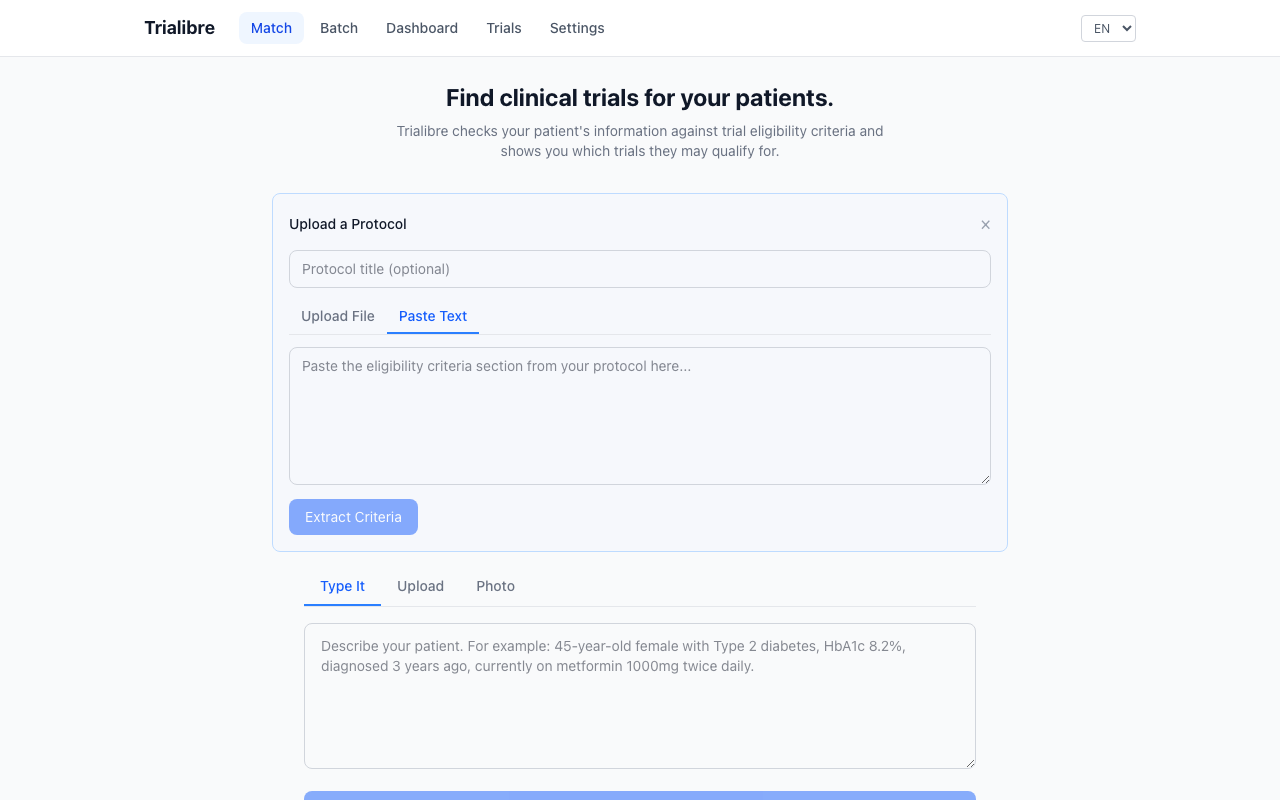
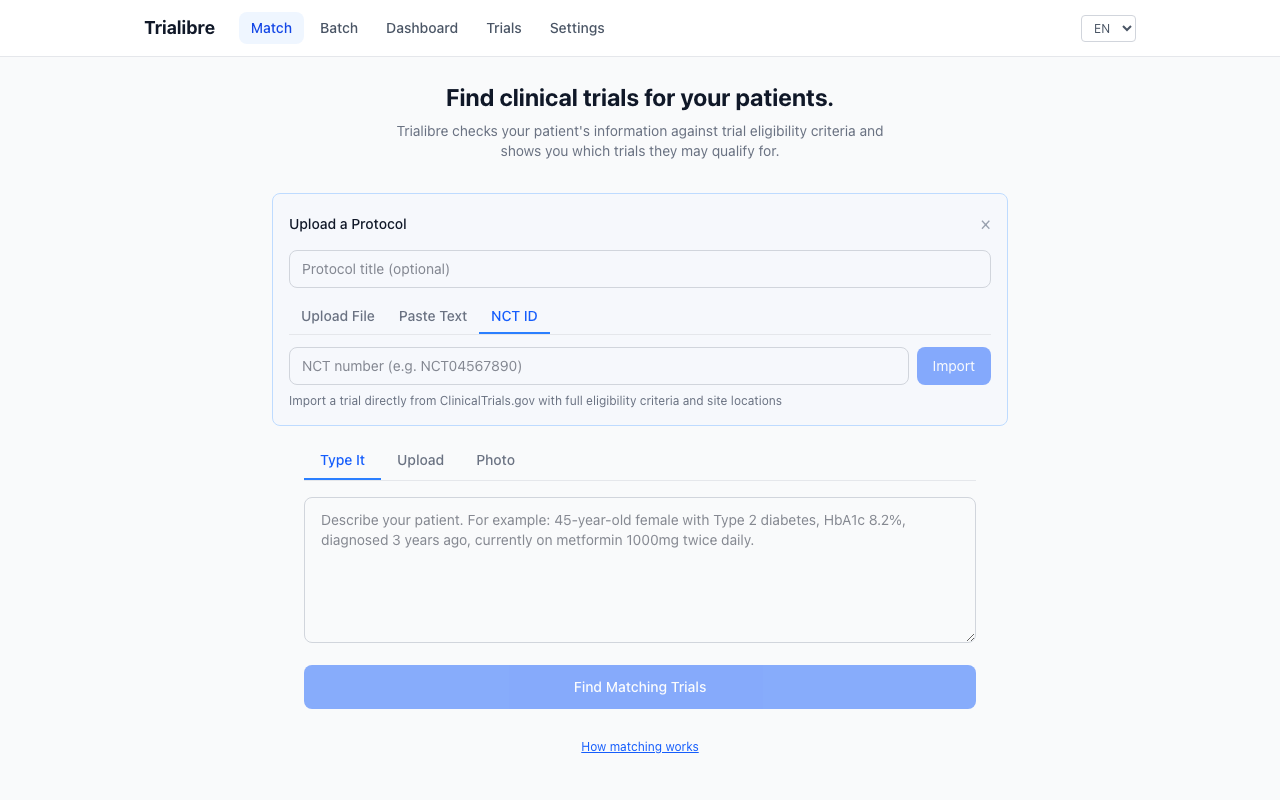
Update README with NCT ID import + revised screenshot
- Added NCT ID import to Features section
- Updated screenshot to show NCT ID tab
- Updated protocol upload caption

diff --git a/README.md b/README.md
@@ -53,8 +53,8 @@ Type a clinical note, upload a document, or take a photo of a patient record.
   <img src="docs/screenshots/01-match-page.png" alt="Match Page" width="700" />
 </p>
 
-### Custom Protocol Upload
-Upload your own protocol document (PDF, DOCX, or paste text) and match patients against it. Trialibre automatically extracts inclusion and exclusion criteria from the document.
+### Custom Protocol Upload + ClinicalTrials.gov Import
+Upload your own protocol (PDF, DOCX, paste text) or import directly from ClinicalTrials.gov by NCT ID. Trialibre extracts inclusion/exclusion criteria automatically.
 
 <p align="center">
   <img src="docs/screenshots/11-protocol-upload.png" alt="Protocol Upload" width="700" />
@@ -177,6 +177,7 @@ npm run dev
 
 ### Custom Protocol Upload
 - **Upload a protocol** — PDF, DOCX, or paste eligibility criteria text
+- **Import by NCT ID** — Enter an NCT number to fetch a trial directly from ClinicalTrials.gov with full criteria and site locations
 - **Auto-extraction** — Heuristic parser finds inclusion/exclusion criteria sections (no LLM needed)
 - **Match against it** — Same pipeline as registry trials, scoped to your uploaded protocol
 - **Manage uploads** — View, search, and delete uploaded trials from the Trials page
